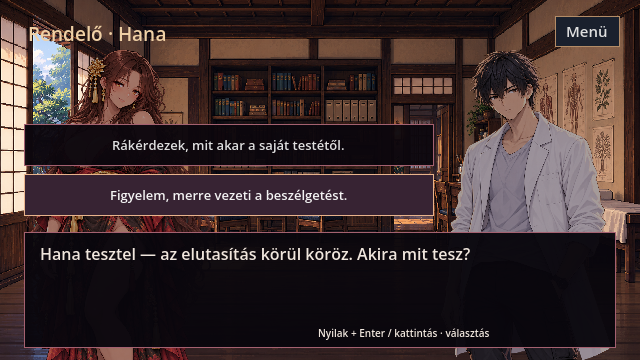
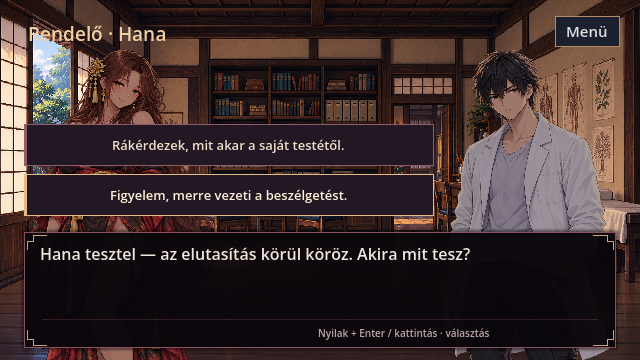
Polish VN dialogue frames and correct Hana doorway hand

diff --git a/tools/dialogue_portrait_staging.py b/tools/dialogue_portrait_staging.py
@@ -38,7 +38,7 @@ def configure_hana(data):
         }
         for cue, image in starts.items():
             if cue in text:
-                version = "2" if image == "hana_farewell" else "1"
+                version = "2" if image in ("hana_farewell", "hana_door") else "1"
                 line["cg"] = CG + image + "_v" + version + "_REVIEW.png"
                 if image == "hana_notebook":
                     line["cg_zoom"] = 1.2 # Keep the written name above the dialogue panel.

diff --git a/docs/DIALOGUE_UI_HAND_FIX_REVIEW.md b/docs/DIALOGUE_UI_HAND_FIX_REVIEW.md
@@ -1,0 +1,30 @@
+# Dialogue polish and Hana hand correction — REVIEW
+
+2026-10-04. User identified the doorway CG, not the couch CG. Original preserved.
+
+## Asset
+
+- Source: `assets/home_day2/hana_door_v1_REVIEW.png`
+- Replacement: `assets/home_day2/hana_door_v2_REVIEW.png`
+- Provider: built-in ImageGen edit. REVIEW, not a new locked design.
+- Change: coherent wrist and doorknob grip; character identity and staging retained.
+
+### Exact prompt
+
+Use case: precise-object-edit. Edit target: supplied Hana clinic doorway illustration. Correct ONLY the visible hand gripping the brass round doorknob at bottom left and its wrist connection. Draw one anatomically plausible hand: thumb opposing four naturally curled fingers around the knob, coherent knuckles and finger overlap, natural wrist emerging from the existing sleeve. The knob must remain visibly round brass and the grip physically convincing. Preserve Hana's exact face, hair, gold ornaments, kimono, pose, silhouette, scene composition, clinic furnishings, lighting, colors and illustration style. Do not redesign the character, add text, crop or change the camera. Keep the original wide landscape framing.
+
+## Dialogue UI
+
+Reference: `assets/opening/reference/TSUKIMORI_PIXEL_DIALOGUE_UI_V1.png`.
+Native scalable frame with ink/plum surface, rose outline, brass corner inlays,
+small blossom on nameplate, subtle footer divider and matching buttons.
+Keyboard focus remains visible. Existing text area, portrait staging and CG caption
+geometry retained. No narrative or state changes.
+
+## Verification
+
+Godot import, Hana's four choice combinations and first-night/first-day branches passed.
+Regression checks include text bounds, button clearance, portrait placement and state.
+Captured in `review/cg_hana_door_v2_REVIEW.png` and Hana/patient review screenshots.
+Environment still reports the pre-existing Windows certificate-store diagnostic;
+night/day shutdown also reports two leaked ObjectDB instances.
